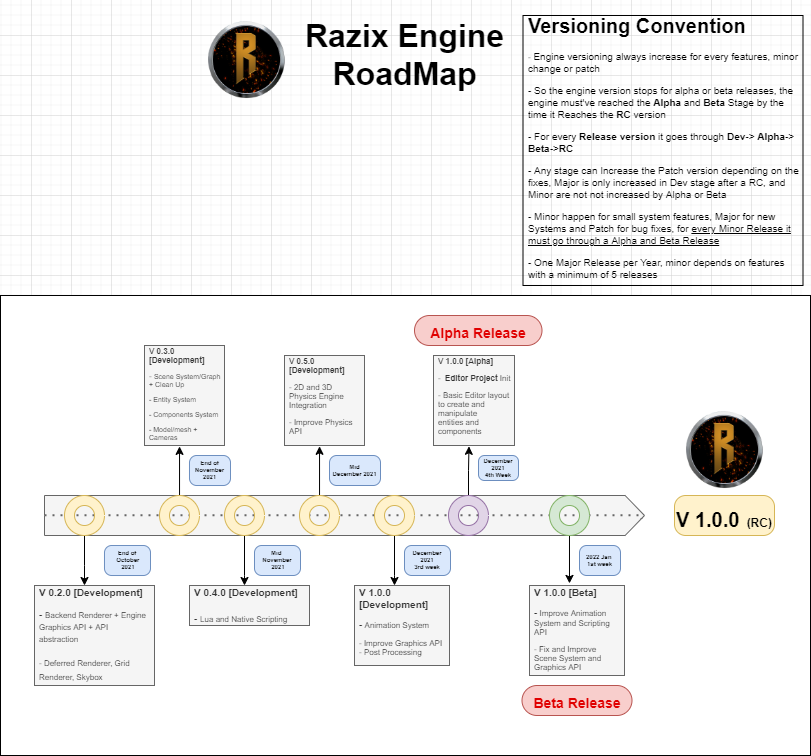
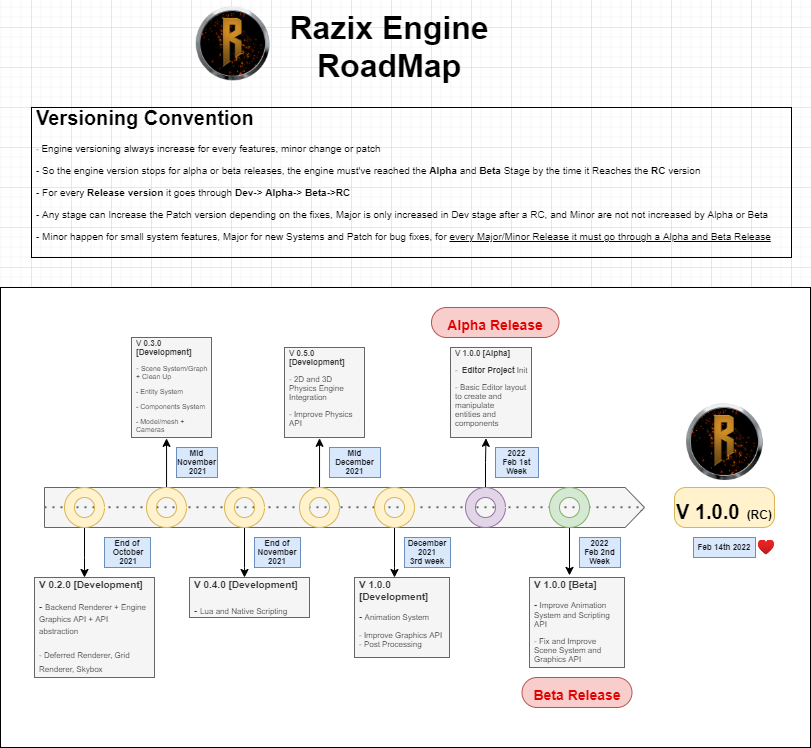
[Docs, Graphics] Updated Roadmap and Redesigning Texture Interface;

Changed region(s): [[0.0, 0.0, 1.0, 0.9532], [0.8323, 0.5227, 0.9556, 0.7687]]

diff --git a/Engine/src/Razix/Graphics/API/Texture.h b/Engine/src/Razix/Graphics/API/Texture.h
@@ -5,137 +5,6 @@
 namespace Razix {
     namespace Graphics {
 
-        /* Load options on how the texture is loaded */
-        struct TextureLoadOptions
-        {
-            bool flipX;
-            bool flipY;
-            bool generateMipMaps;
-
-            TextureLoadOptions() {
-                flipX = false;
-                flipY = false;
-                generateMipMaps = true;
-            }
-
-            TextureLoadOptions(bool flipX, bool flipY, bool genMips = true)
-                : flipX(flipX)
-                , flipY(flipY)
-                , generateMipMaps(genMips) {}
-        };
-
-        /* Texture Formats supported by the Engine */
-        enum class TextureFormat
-        {
-            NONE,
-            R8,
-            RG8,
-            RGB8,
-            RGBA8,
-            RGB16,
-            RGBA16,
-            RGB32,
-            RGBA32,
-            RGB,
-            RGBA,
-            DEPTH,
-            STENCIL,
-            DEPTH_STENCIL,
-            SCREEN
-        };
-
-        /* Texture WrapMode */
-        enum class TextureWrap
-        {
-            NONE,
-            REPEAT,
-            CLAMP,
-            MIRRORED_REPEAT,
-            CLAMP_TO_EDGE,
-            CLAMP_TO_BORDER
-        };
-
-        /* Texture Filter Mode */
-        enum class TextureFilter
-        {
-            NONE,
-            LINEAR,
-            NEAREST
-        };
-
-        /* Encapsulation of all the texture parameters */
-        struct TextureParameters
-        {
-            TextureFormat   format;
-            TextureFilter   minFilter;
-            TextureFilter   magFilter;
-            TextureWrap     wrap;
-            bool            srgb = false;
-
-            TextureParameters() {
-                format      = TextureFormat::RGBA8;
-                minFilter   = TextureFilter::NEAREST;
-                magFilter   = TextureFilter::NEAREST;
-                wrap        = TextureWrap::REPEAT;
-            }
-
-            TextureParameters(TextureFormat format, TextureFilter minFilter, TextureFilter magFilter, TextureWrap wrap)
-                : format(format)
-                , minFilter(minFilter)
-                , magFilter(magFilter)
-                , wrap(wrap) {}
-
-            TextureParameters(TextureFilter minFilter, TextureFilter magFilter)
-                : format(TextureFormat::RGBA8)
-                , minFilter(minFilter)
-                , magFilter(magFilter)
-                , wrap(TextureWrap::CLAMP) {}
-
-            TextureParameters(TextureFilter minFilter, TextureFilter magFilter, TextureWrap wrap)
-                : format(TextureFormat::RGBA8)
-                , minFilter(minFilter)
-                , magFilter(magFilter)
-                , wrap(wrap) {}
-
-            TextureParameters(TextureWrap wrap)
-                : format(TextureFormat::RGBA8)
-                , minFilter(TextureFilter::LINEAR)
-                , magFilter(TextureFilter::LINEAR)
-                , wrap(wrap) {}
-
-            TextureParameters(TextureFormat format)
-                : format(format)
-                , minFilter(TextureFilter::LINEAR)
-                , magFilter(TextureFilter::LINEAR)
-                , wrap(TextureWrap::CLAMP) {}
-        };
-
-        /* Razix Engine Texture class */
-        class RAZIX_API Texture
-        {
-        public:
-            virtual ~Texture() {}
-
-
-            virtual void Bind(uint32_t slot = 0) const = 0;
-            virtual void Unbind(uint32_t = 0) const = 0;
-
-            virtual void SetData(const void* pixels) = 0;
-
-
-        };
-
-        class RAZIX_API Texture2D : public Texture
-        {
-        public:
-            static void Texture2D* CreateTexture(std::string name, std::string pathName, TextureLoadOptions loadOptions = = TextureLoadOptions(), TextureParameters parameters = TextureParameters());
-
-            void Bind(uint32_t slot = 0) const override;
-            void Unbind(uint32_t = 0) const override;
-
-            void SetData(const void* pixels) override;
-
-        };
 
     }
 }

diff --git a/Engine/src/Razix/Graphics/API/Texture.cpp b/Engine/src/Razix/Graphics/API/Texture.cpp
@@ -5,16 +5,72 @@
 namespace Razix {
     namespace Graphics {
 
-        void Texture2D::Bind(uint32_t slot /*= 0*/) const {
-            throw std::logic_error("The method or operation is not implemented.");
+        //-----------------------------------------------------------------------------------
+        // Texture
+        //-----------------------------------------------------------------------------------
+
+        uint8_t Texture::GetStrideFromFormat(TextureFormat format) {
+            switch (format) {
+                case TextureFormat::RGB:
+                    return 3;
+                case TextureFormat::RGBA:
+                    return 4;
+                case TextureFormat::R8:
+                    return 1;
+                case TextureFormat::RG8:
+                    return 2;
+                case TextureFormat::RGB8:
+                    return 3;
+                case TextureFormat::RGBA8:
+                    return 4;
+                default:
+                    return 0;
+            }
         }
 
-        void Texture2D::Unbind(uint32_t /*= 0*/) const {
-            throw std::logic_error("The method or operation is not implemented.");
+        TextureFormat Texture::BitsToTextureFormat(uint32_t bits) {
+            switch (bits) {
+                case 8:
+                    return TextureFormat::R8;
+                case 16:
+                    return TextureFormat::RG8;
+                case 24:
+                    return TextureFormat::RGB8;
+                case 32:
+                    return TextureFormat::RGBA8;
+                case 48:
+                    return TextureFormat::RGB16;
+                case 64:
+                    return TextureFormat::RGBA16;
+                default:
+                    RAZIX_CORE_ASSERT(false, "[Texture] Unsupported image bit-depth! ({0})", bits);
+                    break;
+            }
         }
 
-        void Texture2D::SetData(const void* pixels) {
-            throw std::logic_error("The method or operation is not implemented.");
+        uint32_t Texture::CalculateMipMapCount(uint32_t width, uint32_t height) {
+            uint32_t levels = 1;
+            while ((width | height) >> levels)
+                levels++;
+
+            return levels;
+        }
+
+        //-----------------------------------------------------------------------------------
+        // Texture2D
+        //-----------------------------------------------------------------------------------
+
+
+        Texture2D* Texture2D::Create() {
+
+        }
+
+        Texture2D* Texture2D::Create(uint32_t width, uint32_t height, void* data, TextureLoadOptions loadOptions /*= TextureLoadOptions()*/, TextureParameters parameters /*= TextureParameters()*/) {
+
+        }
+
+        Texture2D* Texture2D::CreateFromFile(std::string name, std::string pathName, TextureLoadOptions loadOptions /*= TextureLoadOptions()*/, TextureParameters parameters /*= TextureParameters()*/) {
+
         }
 
     }

diff --git a/Engine/src/Razix/Core/Engine.cpp b/Engine/src/Razix/Core/Engine.cpp
@@ -23,7 +23,7 @@ namespace Razix
         Razix::SplashScreen::Get().SetLogString("Igniting Engine...");
 
         // TODO: Temp code remove this!!!
-        std::this_thread::sleep_for(std::chrono::milliseconds(500));
+        std::this_thread::sleep_for(std::chrono::milliseconds(1000));
 
         // Logging the Engine Version details
         RAZIX_CORE_INFO("Engine Stats : [Version : {0} , Release Stage : {1}, Release Date : {2}]", Razix::RazixVersion.GetVersionString(), Razix::RazixVersion.GetReleaseStageString(), Razix::RazixVersion.GetReleaseDateString());
@@ -33,16 +33,20 @@ namespace Razix
         //------------------------------//
         // 1. Virtual File System
         VFS::Get().StartUp();
+        // TODO: Temp code remove this!!!
+        std::this_thread::sleep_for(std::chrono::milliseconds(1000));
 
         // 2. Mount engine specific Paths
         // TODO: Either use embedded data for these using .inl files or load them from the Application derived data, Whatever it is remove this by loading from source path
-        VFS::Get().Mount("EngineSource", std::string(STRINGIZE(RAZIX_ROOT_DIR) + std::string("/Razix/src/Razix")));
+        VFS::Get().Mount("EngineSource", std::string(STRINGIZE(RAZIX_ROOT_DIR) + std::string("/Razix/")));
 
         // Log after all the Engine systems have been successfully Started Up
         RAZIX_CORE_INFO("***********************************");
         RAZIX_CORE_INFO("*          Engine Ignited!        *");
         RAZIX_CORE_INFO("***********************************");
         Razix::SplashScreen::Get().SetLogString("Engine Ignited!");
+        // TODO: Temp code remove this!!!
+        std::this_thread::sleep_for(std::chrono::milliseconds(1000));
         Razix::SplashScreen::Get().Destroy();
         
         // TODO: Log the time take to initialize engine using Profiling macros

diff --git a/Engine/src/Razix/Graphics/API/Swapchain.h b/Engine/src/Razix/Graphics/API/Swapchain.h
@@ -21,12 +21,11 @@ namespace Razix {
             virtual void Init() = 0;
             virtual void Destroy() = 0;
 
-            virtual Texture* GetCurrentImage() = 0;
             virtual Texture* GetImage(uint32_t index) = 0;
+            virtual Texture* GetCurrentImage() = 0;
             virtual uint32_t GetCurrentImageIndex() = 0;
             virtual size_t GetSwapchainImageCount() = 0;
             virtual CommandBuffer* GetCurrentCommandBuffer() = 0;
-
         };
 
     }

diff --git a/Engine/src/Razix/Platform/API/OpenGL/OpenGLTexture.cpp b/Engine/src/Razix/Platform/API/OpenGL/OpenGLTexture.cpp
@@ -1,0 +1,12 @@
+#include "rzxpch.h"
+#include "OpenGLTexture.h"
+
+
+namespace Razix {
+    namespace Graphics {
+
+        //-----------------------------------------------------------------------------------
+        // Texture2D
+        //-----------------------------------------------------------------------------------
+    }
+}

diff --git a/Engine/src/Razix/Platform/API/OpenGL/OpenGLSwapchain.h b/Engine/src/Razix/Platform/API/OpenGL/OpenGLSwapchain.h
@@ -1,8 +1,8 @@
 #pragma once
 
-#ifdef RAZIX_RENDER_API_OPENGL
-
 #include "Razix/Graphics/API/Swapchain.h"
+
+#ifdef RAZIX_RENDER_API_OPENGL
 
 namespace Razix {
     namespace Graphics {
@@ -29,6 +29,4 @@ namespace Razix {
         };
     }
 }
-
-
 #endif

diff --git a/Engine/src/Razix/Platform/API/OpenGL/OpenGLSwapchain.cpp b/Engine/src/Razix/Platform/API/OpenGL/OpenGLSwapchain.cpp
@@ -1,6 +1,8 @@
 #include "rzxpch.h"
 #include "OpenGLSwapchain.h"
 
+#ifdef RAZIX_RENDER_API_OPENGL
+
 namespace Razix {
     namespace Graphics {
 
@@ -38,3 +40,4 @@ namespace Razix {
 
     }
 }
+#endif

diff --git a/Engine/src/Razix/Platform/API/OpenGL/OpenGLTexture.h b/Engine/src/Razix/Platform/API/OpenGL/OpenGLTexture.h
@@ -1,0 +1,14 @@
+#pragma once
+
+#include "Razix/Graphics/API/Texture.h"
+
+#ifdef RAZIX_RENDER_API_OPENGL
+
+namespace Razix {
+    namespace Graphics {
+
+
+
+    }
+}
+#endif

diff --git a/Engine/src/Razix/Platform/API/DirectX11/DX11Swapchain.cpp b/Engine/src/Razix/Platform/API/DirectX11/DX11Swapchain.cpp
@@ -1,0 +1,2 @@
+#include "rzxpch.h"
+#include "DX11Swapchain.h"

diff --git a/Engine/src/Razix/Platform/API/DirectX11/DX11Swapchain.h b/Engine/src/Razix/Platform/API/DirectX11/DX11Swapchain.h
@@ -1,0 +1,5 @@
+#pragma once
+class DX11Swapchain
+{
+};
+

diff --git a/Engine/src/Razix/Platform/API/Vulkan/VKTexture.h b/Engine/src/Razix/Platform/API/Vulkan/VKTexture.h
@@ -1,0 +1,5 @@
+#pragma once
+class VKTexture
+{
+};
+
